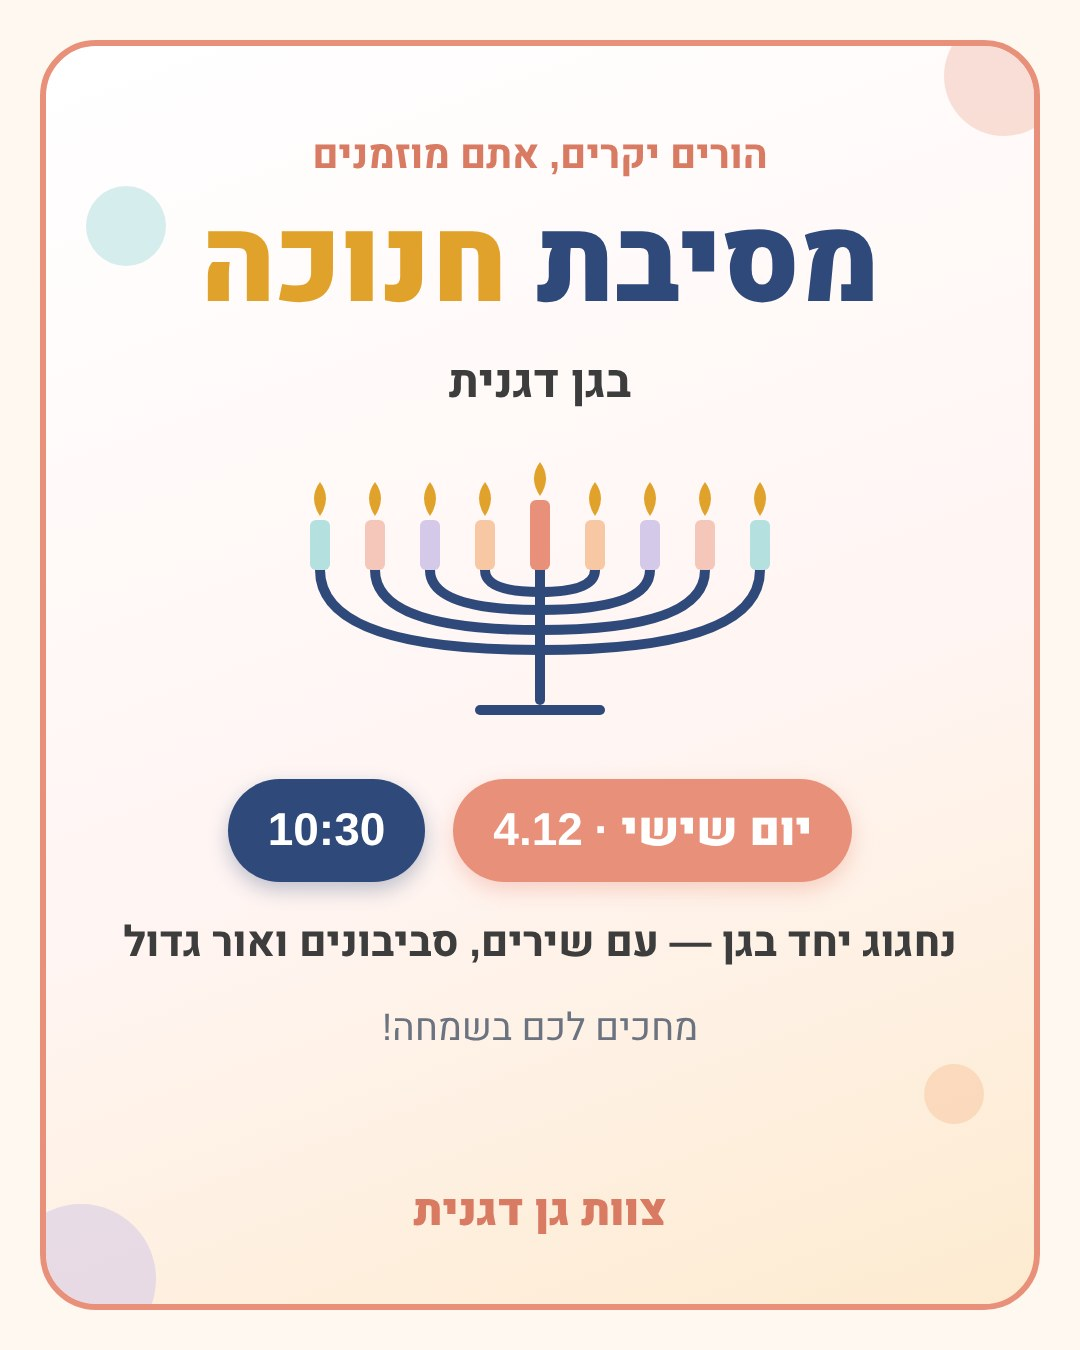
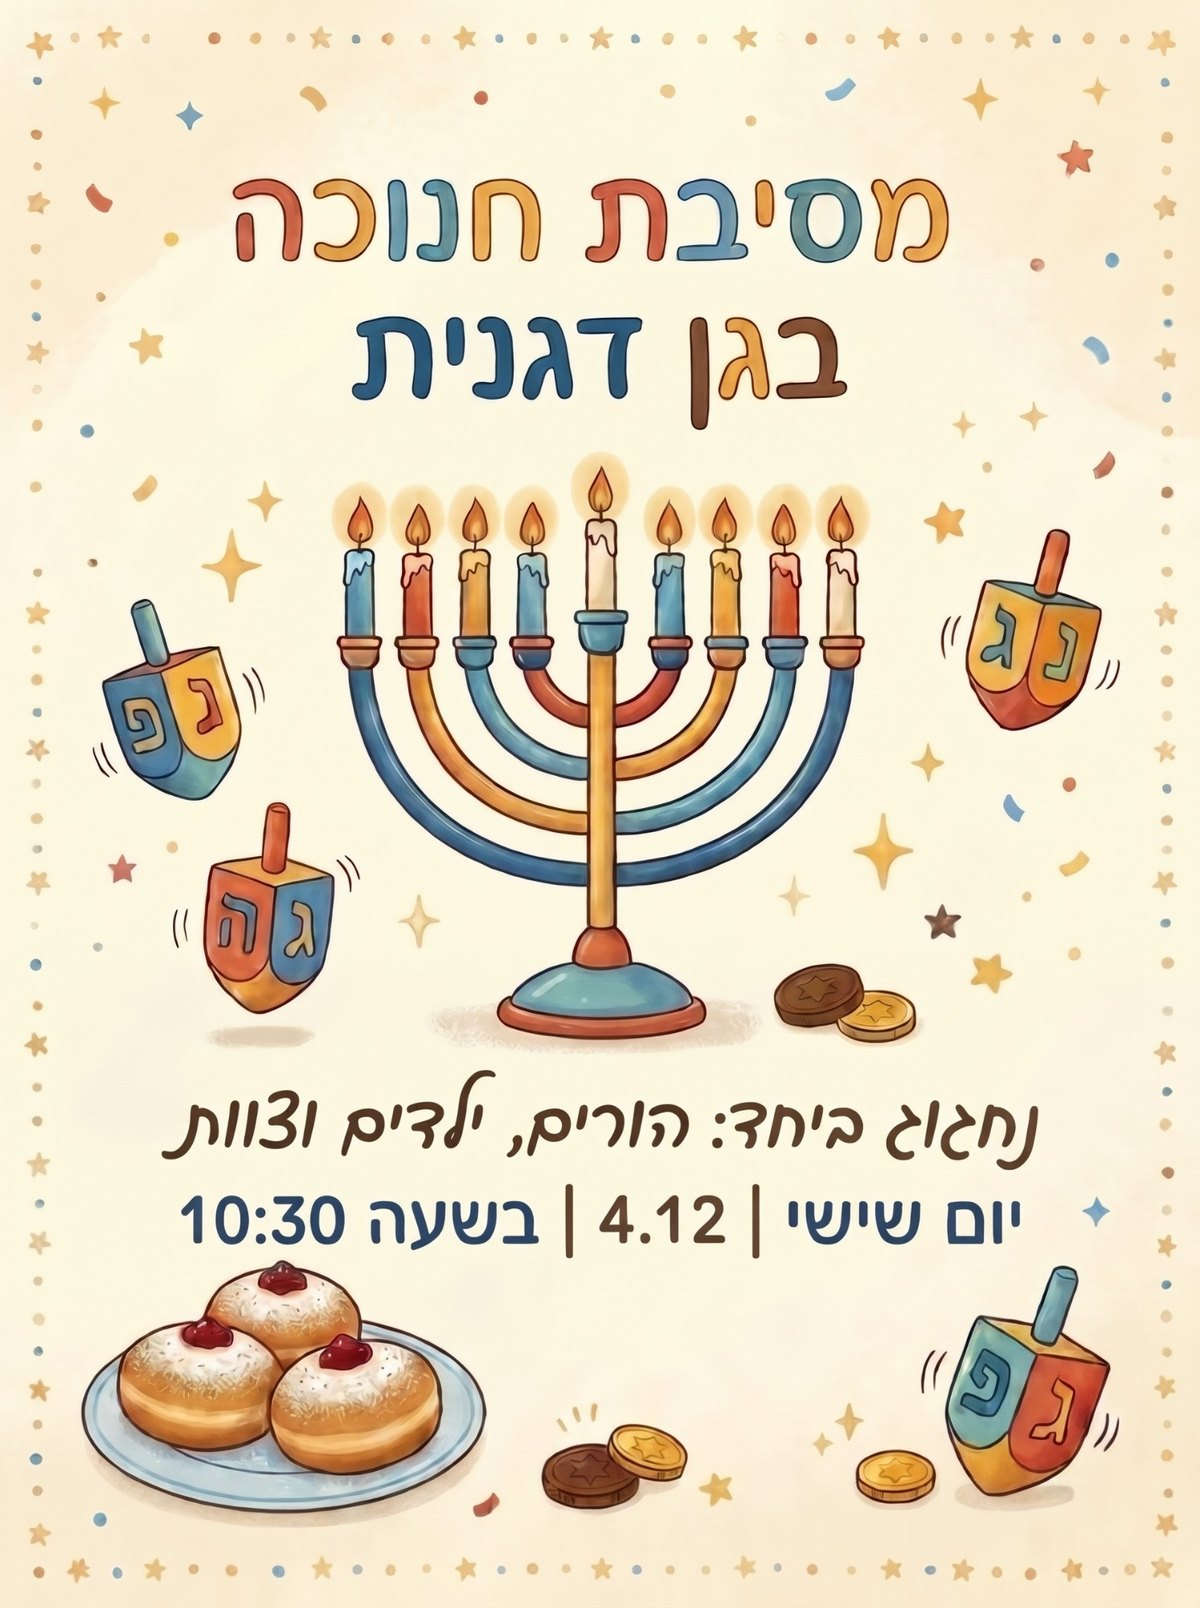
ההזמנה למסיבת חנוכה: ההזמנה של הגן במקום ההזמנה הזמנית
Claude-Session: https://claude.ai/code/session_01ANwP6oC3ZeQMyLyyEUpC1D

diff --git a/src/data/ganUpdates.js b/src/data/ganUpdates.js
@@ -87,7 +87,7 @@ export const ganUpdates = [
     pinned: true,
     image: {
       src: '/hanukkah-party-invite.jpeg',
-      alt: 'הזמנה למסיבת חנוכה בגן דגנית — יום שישי, 4.12, בשעה 10:30',
+      alt: 'הזמנה למסיבת חנוכה בגן דגנית — נחגוג ביחד: הורים, ילדים וצוות. יום שישי, 4.12, בשעה 10:30',
     },
   },
   {
@@ -154,6 +154,6 @@ export const UPDATES_SEEN_KEY = 'gandganit-updates-last-seen'
    ========================================================================== */
 export const homePopup = {
   src: '/hanukkah-party-invite.jpeg',
-  alt: 'הזמנה למסיבת חנוכה בגן דגנית — יום שישי, 4.12, בשעה 10:30',
+  alt: 'הזמנה למסיבת חנוכה בגן דגנית — נחגוג ביחד: הורים, ילדים וצוות. יום שישי, 4.12, בשעה 10:30',
   until: '2026-12-04',
 }
